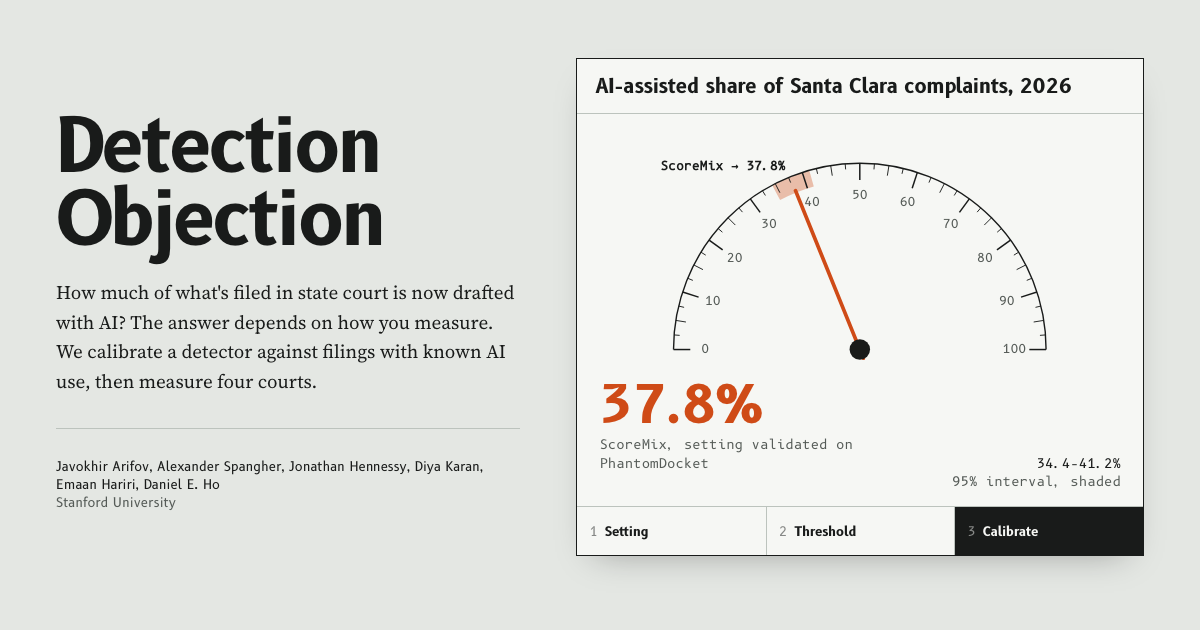
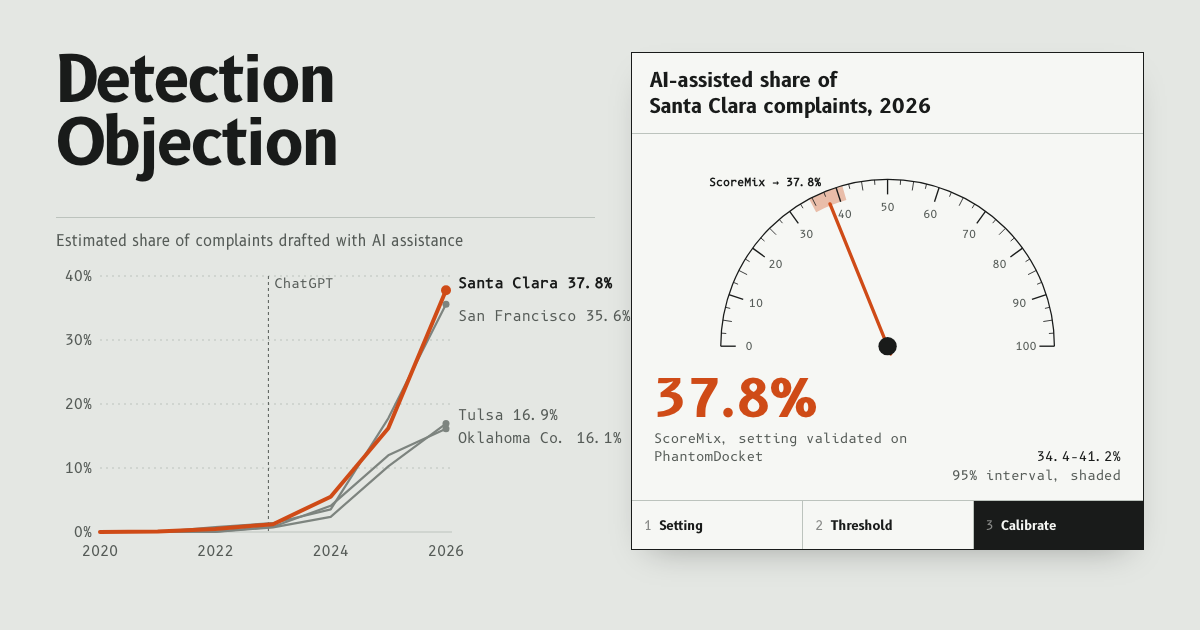
Link preview: trend chart in place of summary text

diff --git a/index.html b/index.html
@@ -10,12 +10,12 @@
 <meta property="og:title" content="Detection Objection">
 <meta property="og:description" content="How much of what's filed in state court is now drafted with AI? The answer depends on how you measure. We calibrate a detector against filings with known AI use, then measure four courts.">
 <meta property="og:url" content="https://detection-objection.reglabapp.com/">
-<meta property="og:image" content="https://detection-objection.reglabapp.com/images/og.png">
+<meta property="og:image" content="https://detection-objection.reglabapp.com/images/og.png?v=2">
 <meta property="og:image:width" content="1200">
 <meta property="og:image:height" content="630">
-<meta property="og:image:alt" content="Detection Objection: a dial reading 37.8%, the ScoreMix estimate of AI-assisted Santa Clara complaints in 2026.">
+<meta property="og:image:alt" content="Detection Objection: estimated AI-assisted share of complaints in four trial courts, 2020 to 2026, rising to 37.8% in Santa Clara, shown on a dial.">
 <meta name="twitter:card" content="summary_large_image">
-<meta name="twitter:image" content="https://detection-objection.reglabapp.com/images/og.png">
+<meta name="twitter:image" content="https://detection-objection.reglabapp.com/images/og.png?v=2">
 <link rel="preconnect" href="https://fonts.googleapis.com">
 <link rel="preconnect" href="https://fonts.gstatic.com" crossorigin>
 <link href="https://fonts.googleapis.com/css2?family=B612:wght@400;700&family=B612+Mono&family=Source+Serif+4:opsz,wght@8..60,400;8..60,600&family=Tinos:wght@400;700&display=swap" rel="stylesheet">
